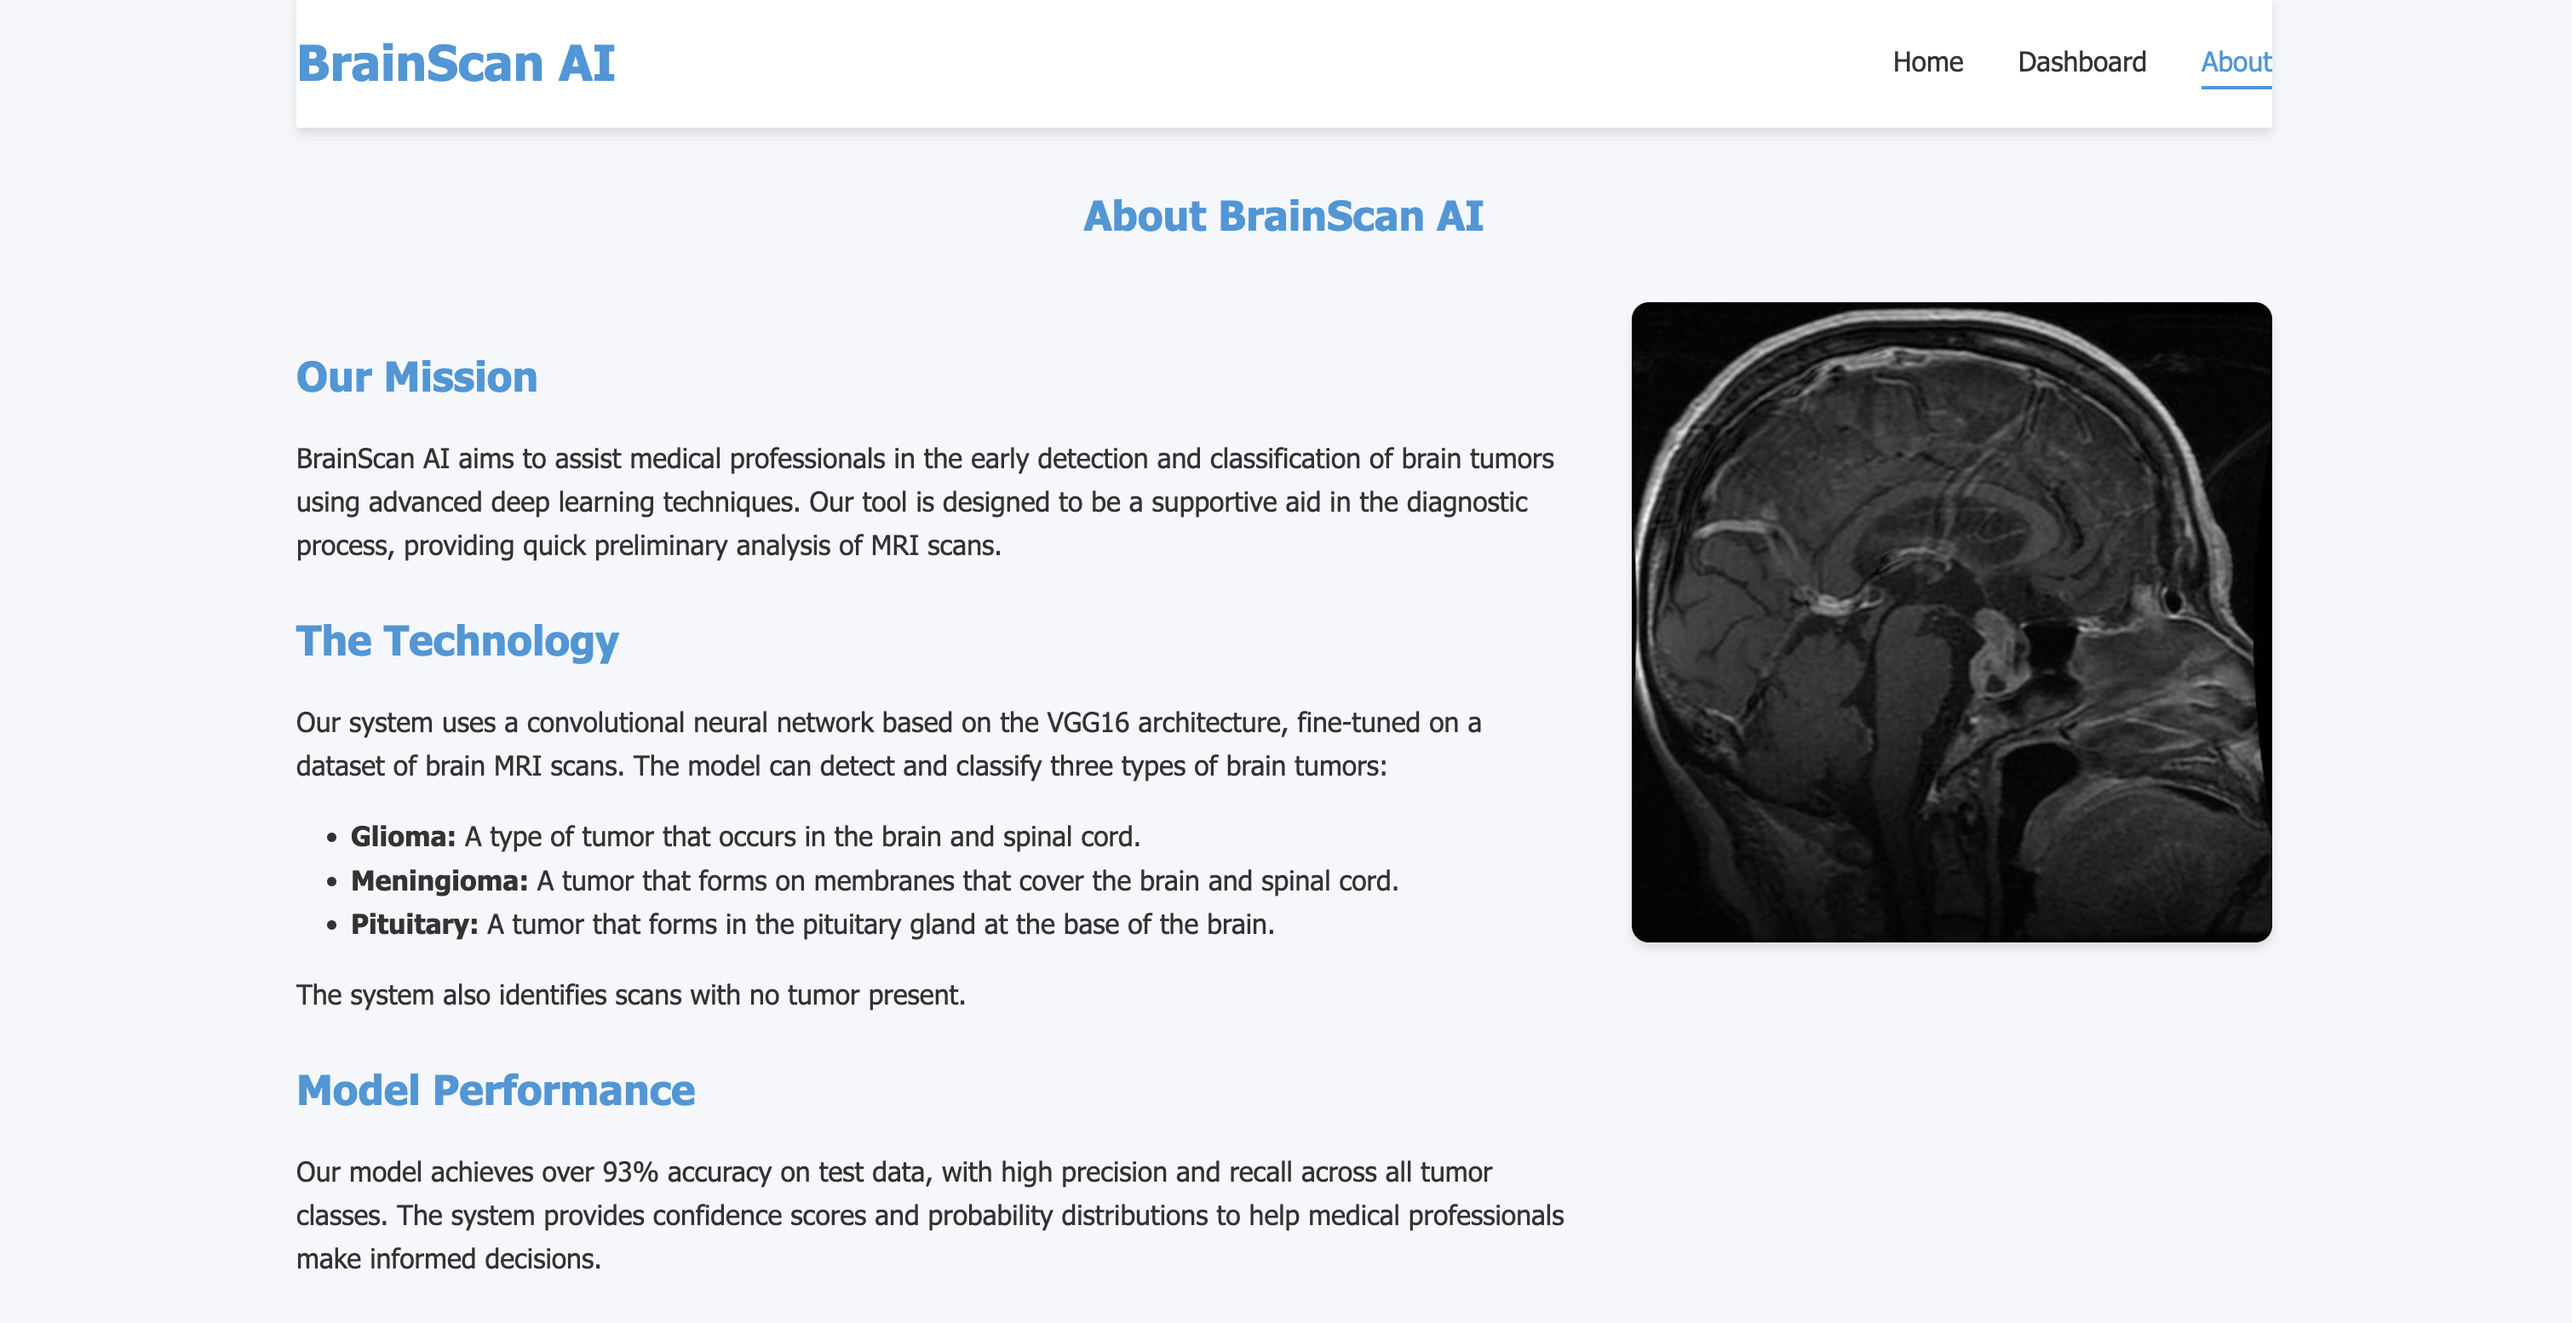
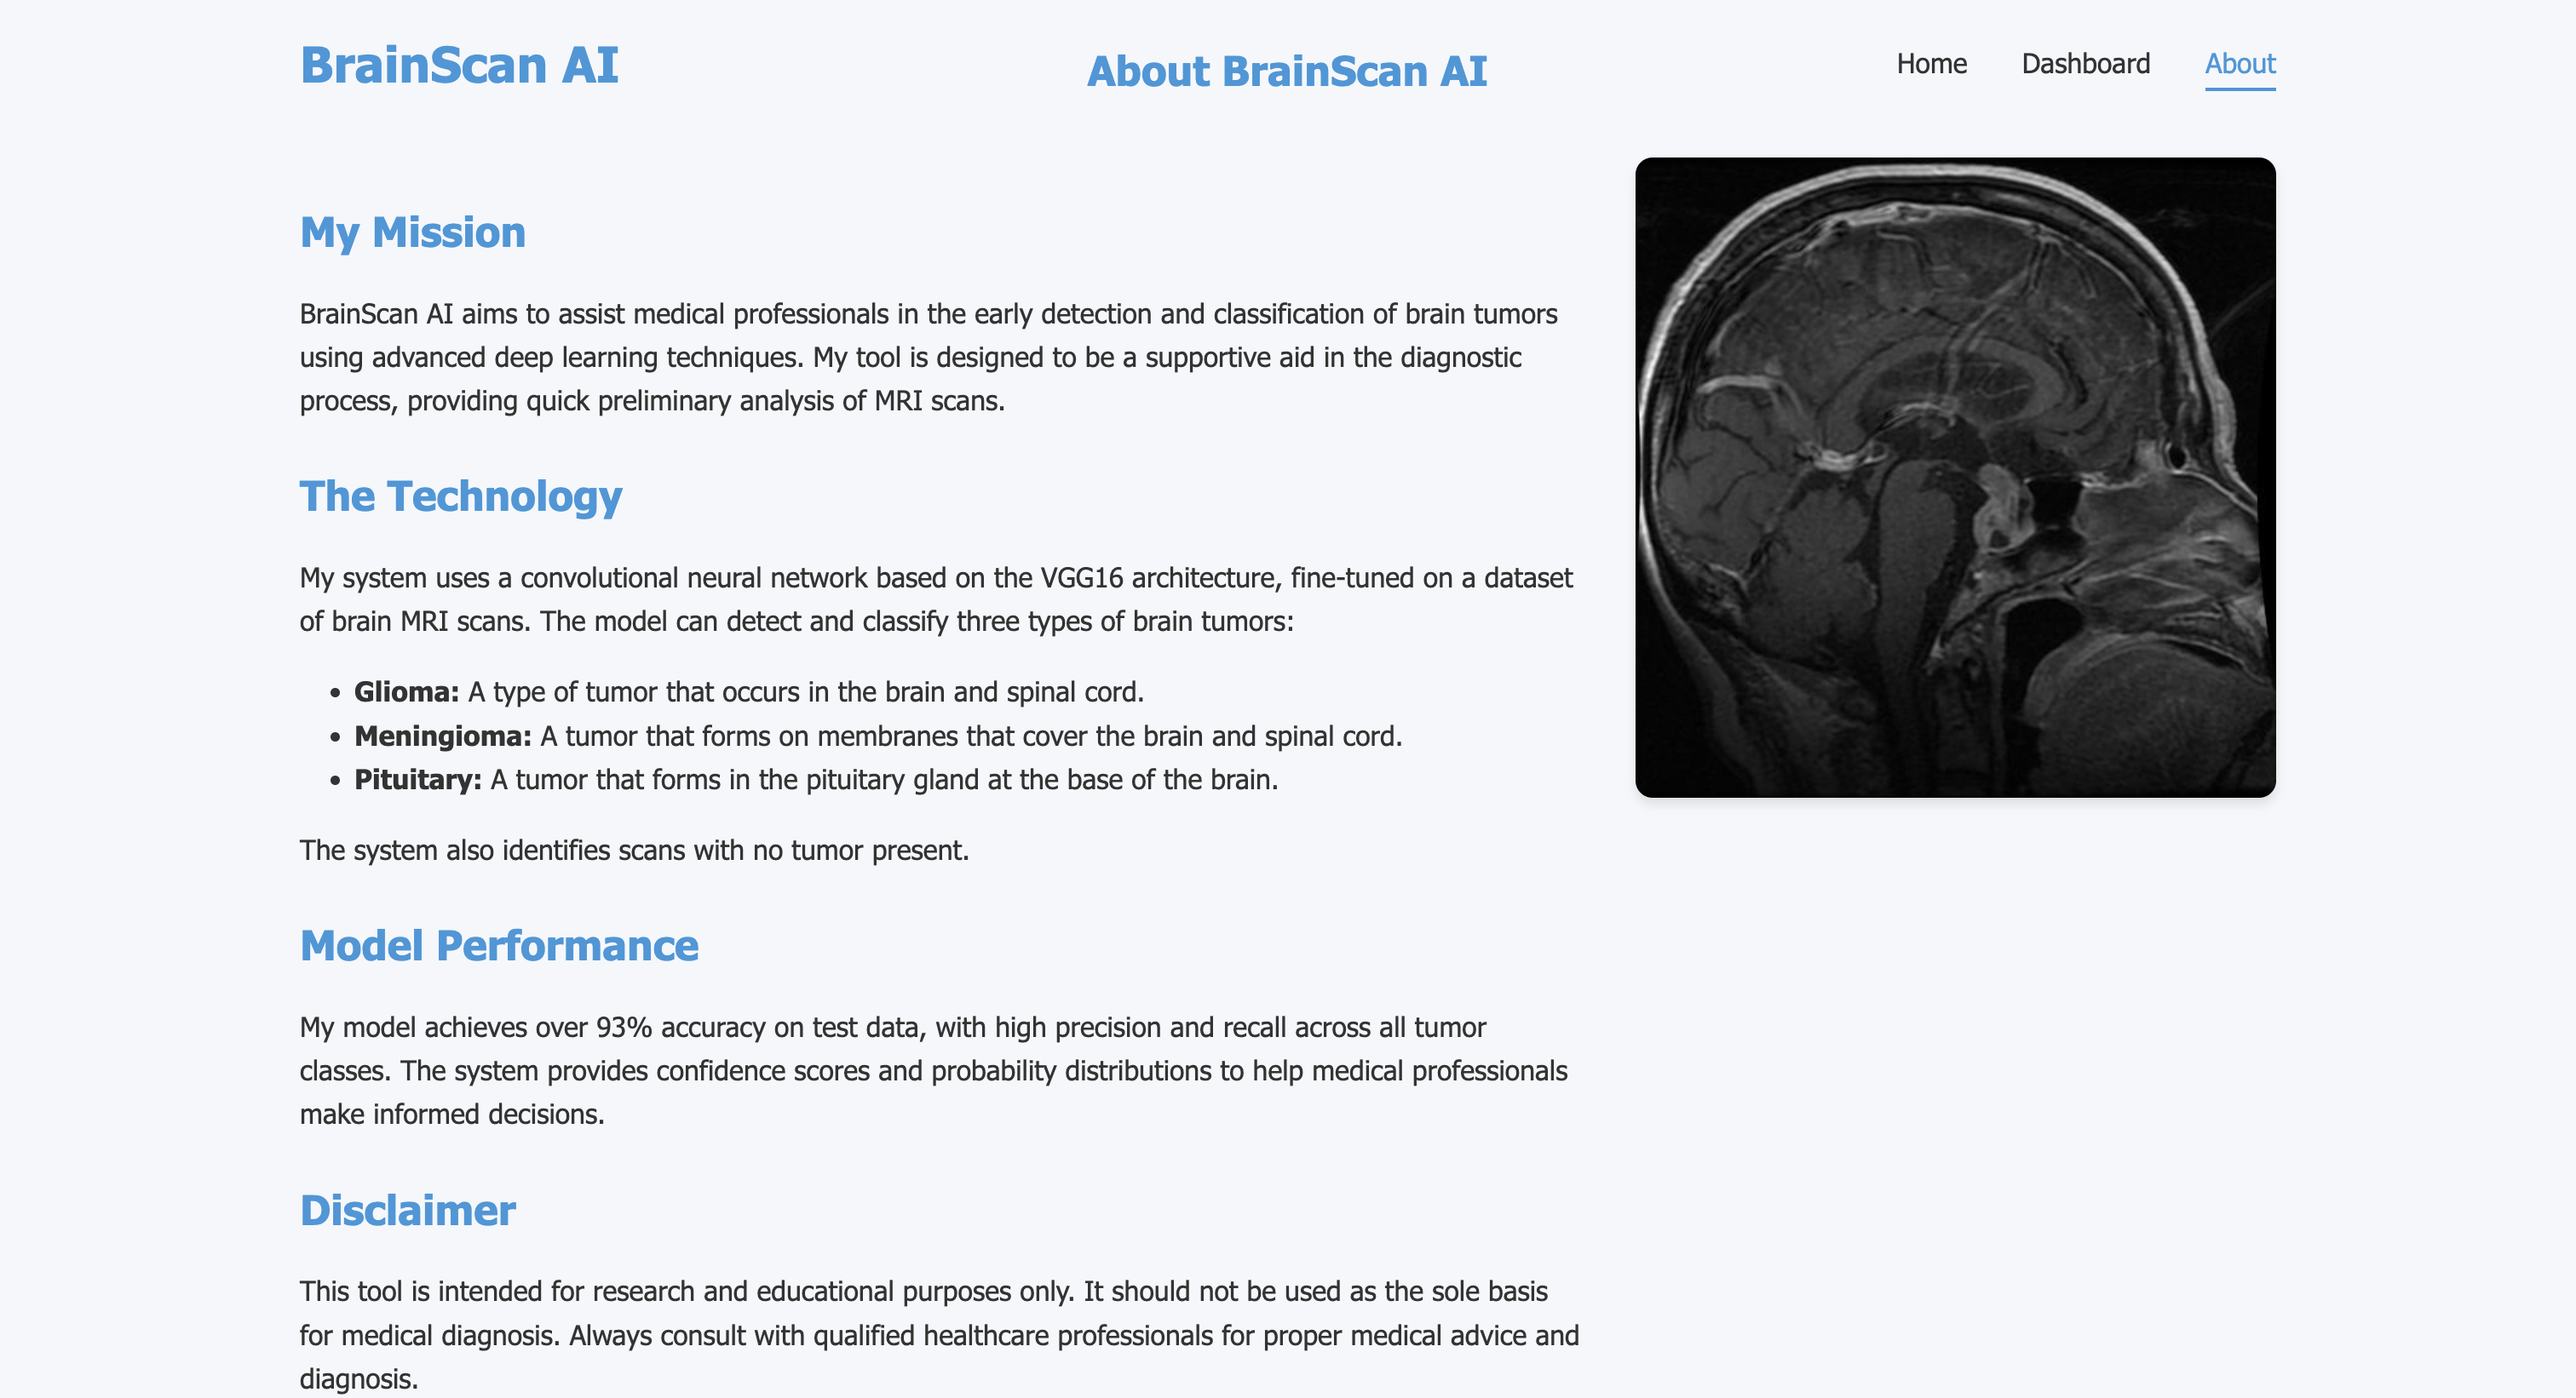
Updating Readme as per new layout

diff --git a/templates/about.html b/templates/about.html
@@ -27,11 +27,11 @@
                 <h1>About BrainScan AI</h1>
                 <div class="about-content">
                     <div class="about-text">
-                        <h2>Our Mission</h2>
-                        <p>BrainScan AI aims to assist medical professionals in the early detection and classification of brain tumors using advanced deep learning techniques. Our tool is designed to be a supportive aid in the diagnostic process, providing quick preliminary analysis of MRI scans.</p>
+                        <h2>My Mission</h2>
+                        <p>BrainScan AI aims to assist medical professionals in the early detection and classification of brain tumors using advanced deep learning techniques. My tool is designed to be a supportive aid in the diagnostic process, providing quick preliminary analysis of MRI scans.</p>
                         
                         <h2>The Technology</h2>
-                        <p>Our system uses a convolutional neural network based on the VGG16 architecture, fine-tuned on a dataset of brain MRI scans. The model can detect and classify three types of brain tumors:</p>
+                        <p>My system uses a convolutional neural network based on the VGG16 architecture, fine-tuned on a dataset of brain MRI scans. The model can detect and classify three types of brain tumors:</p>
                         <ul>
                             <li><strong>Glioma:</strong> A type of tumor that occurs in the brain and spinal cord.</li>
                             <li><strong>Meningioma:</strong> A tumor that forms on membranes that cover the brain and spinal cord.</li>
@@ -40,7 +40,7 @@
                         <p>The system also identifies scans with no tumor present.</p>
                         
                         <h2>Model Performance</h2>
-                        <p>Our model achieves over 93% accuracy on test data, with high precision and recall across all tumor classes. The system provides confidence scores and probability distributions to help medical professionals make informed decisions.</p>
+                        <p>My model achieves over 93% accuracy on test data, with high precision and recall across all tumor classes. The system provides confidence scores and probability distributions to help medical professionals make informed decisions.</p>
                         
                         <h2>Disclaimer</h2>
                         <p>This tool is intended for research and educational purposes only. It should not be used as the sole basis for medical diagnosis. Always consult with qualified healthcare professionals for proper medical advice and diagnosis.</p>

diff --git a/README.md b/README.md
@@ -68,6 +68,9 @@ The confusion matrix and performance metrics show strong results across all tumo
 ## About the Project
 
 
+<p align="center">
+  <img src="./websit_layout/AboutUS.png" width="800" alt="About Me">
+</p>
 
 ### My Mission
 
